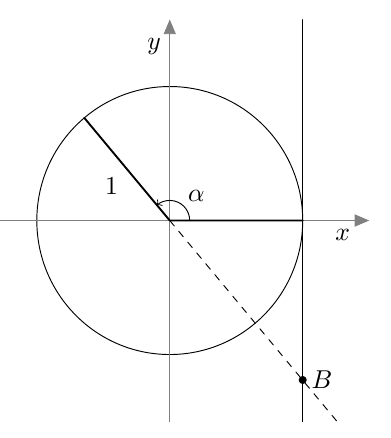
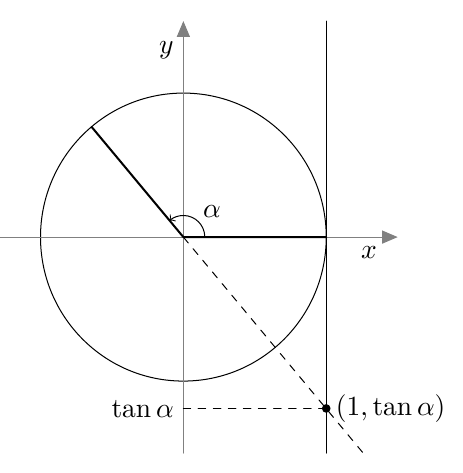
Muoks

diff --git a/kurssit/maa7/luku1/index.html b/kurssit/maa7/luku1/index.html
@@ -1489,9 +1489,9 @@ topnav: maa7
                 <div class="definition">
                     <h3>MÄÄRITELMÄ: SUUNNATUN KULMAN TANGENTTI</h3>
                     <p>
-                        Kulman $\alpha$ <em>kosini</em> on kulman $\alpha$ kehäpisteen $x$-koordinaatti:
+                        Oletetaan, että $\alpha \neq 90^\circ + n \cdot 180^\circ$ kaikilla kokonaisluvuilla $n$. Kulman $\alpha$ <em>tangentti</em> on kulman $\alpha$ tangenttipisteen $y$-koordinaatti:
                         <br>
-                        <img src="/kurssit/maa7/kuvat/MAA7kuva023.png" style="max-width: 100%; width: auto; height: auto;"/>
+                        <img src="/kurssit/maa7/kuvat/MAA7kuva037.png" style="max-width: 100%; width: auto; height: auto;"/>
                     </p>
                 </div>
             </div>
